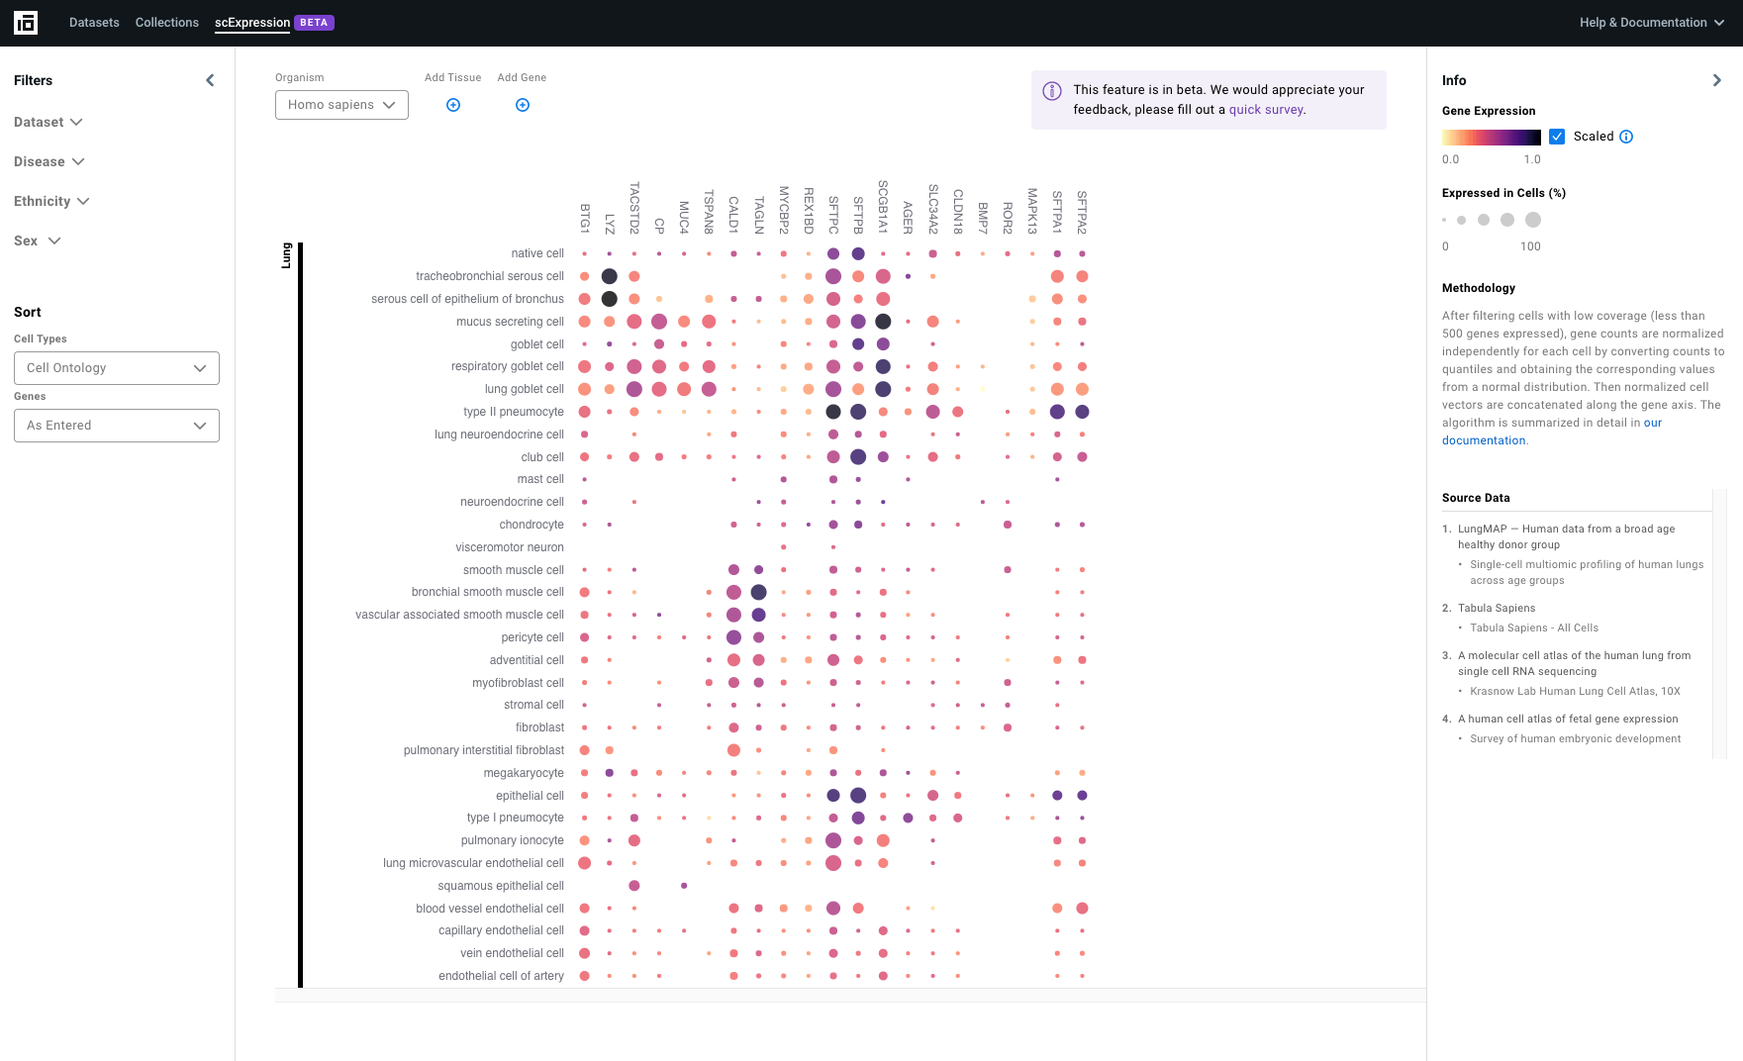
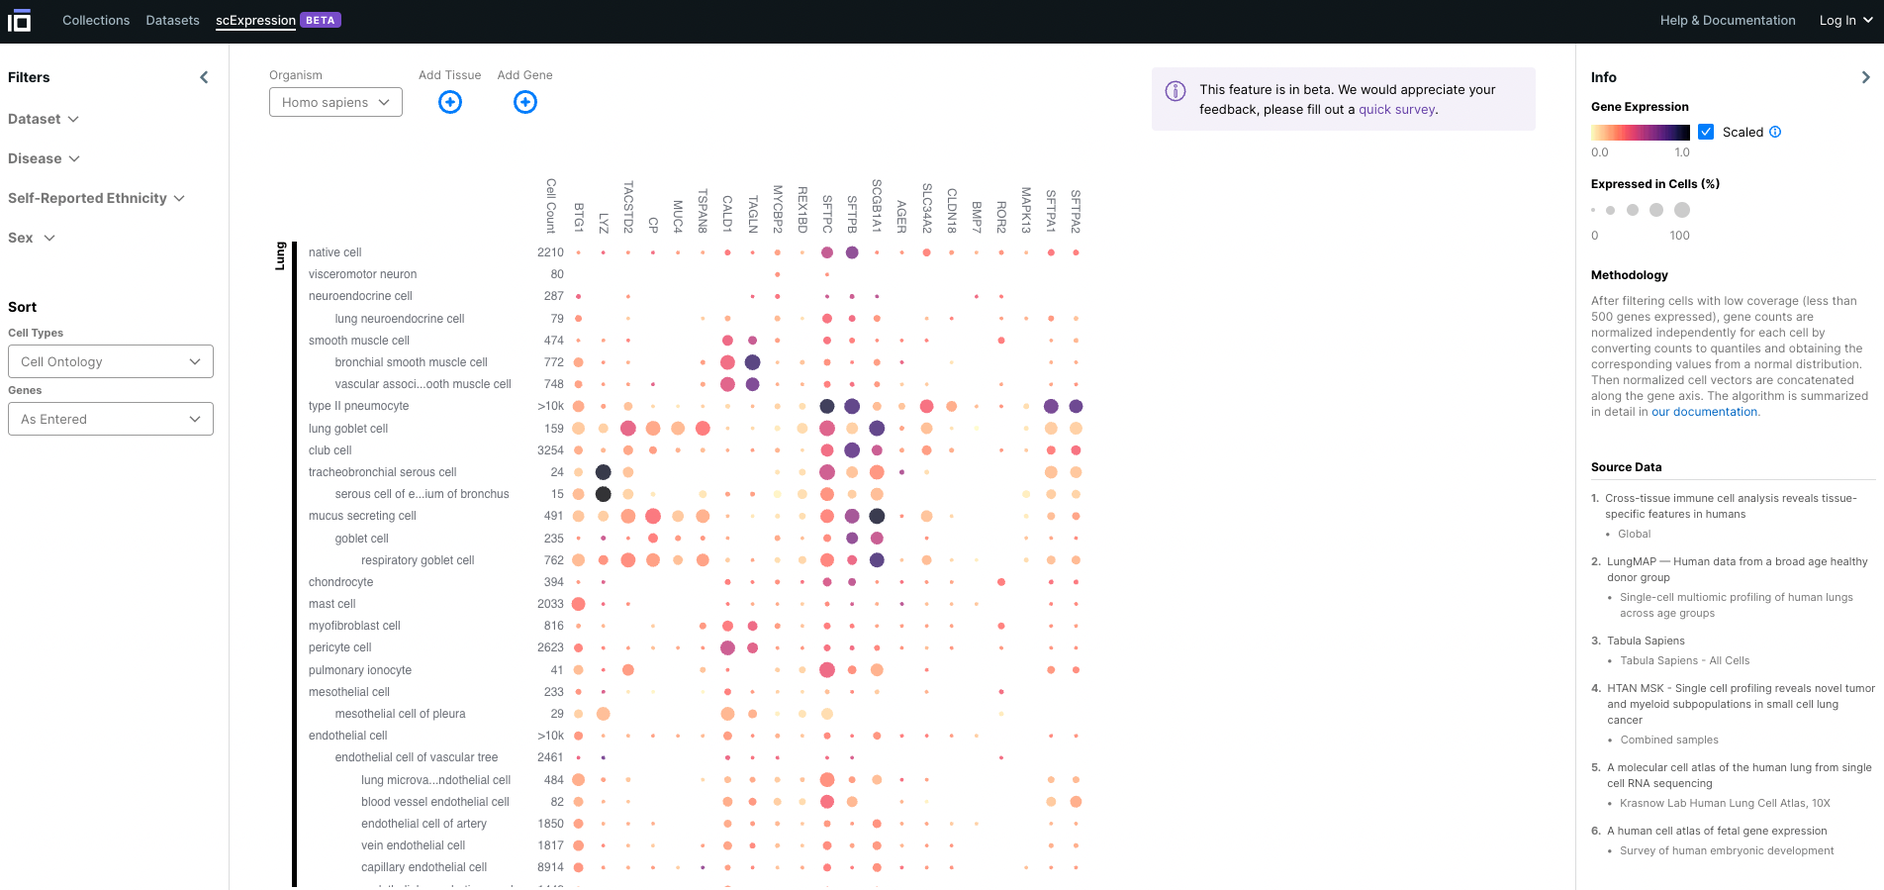
docs: updated doc-site to match schema 3.0.0 requirements (#3180)
* docs: updated to match schema 3.0.0 requirements

* pr feedback

* update to anndata v0.8 download dialog screenshot

* remove unused screenshots + update those with 'ethnicity' to 'self-reported ethnicity'

* Update 032__Contribute and Publish Data.mdx

* reorganize obs cell metadata list

diff --git a/DEV_ENV.md b/DEV_ENV.md
@@ -35,20 +35,20 @@ The dev environment is initialized with AWS Secrets/S3 data in the [scripts/setu
 
 ### Make targets for managing dev:
 
-| Command                                            | Description                                                                        | Notes                                                                                                                                                                                                                                                                                                                                                                                                                                                                                                                                                                                                                                                                                       |
-|----------------------------------------------------| ---------------------------------------------------------------------------------- | ------------------------------------------------------------------------------------------------------------------------------------------------------------------------------------------------------------------------------------------------------------------------------------------------------------------------------------------------------------------------------------------------------------------------------------------------------------------------------------------------------------------------------------------------------------------------------------------------------------------------------------------------------------------------------------------- |
-| `make local-init`                                  | Launch a new local dev env and populate it with test data.                         |                                                                                                                                                                                                                                                                                                                                                                                                                                                                                                                                                                                                                                                                                             |
-| `make local-start`                                 | Start a local dev environment that's been stopped.                                 |                                                                                                                                                                                                                                                                                                                                                                                                                                                                                                                                                                                                                                                                                             |
-| `make local-stop`                                  | Stop the local dev environment.                                                    |                                                                                                                                                                                                                                                                                                                                                                                                                                                                                                                                                                                                                                                                                             |
-| `make local-dbconsole`                             | Connect to the local database.                                                     |                                                                                                                                                                                                                                                                                                                                                                                                                                                                                                                                                                                                                                                                                             |
-| `make local-logs`                                  | Tail the logs of the dev env containers.                                           | Run `make local-logs CONTAINER=backend` to tail the logs of a specific container. Dev containers are: backend, frontend, localstack, database, oidc                                                                                                                                                                                                                                                                                                                                                                                                                                                                                                                                         |
-| `make local-shell CONTAINER=frontend`              | Open a command shell in one of the dev containers                                  | Dev containers are: backend, frontend, localstack, database, oidc                                                                                                                                                                                                                                                                                                                                                                                                                                                                                                                                                                                                                           |
-| `make local-status`                                | Show the status of the containers in the dev environment.                          |                                                                                                                                                                                                                                                                                                                                                                                                                                                                                                                                                                                                                                                                                             |
-| `make local-clean`                                 | Remove everything related to the local dev environment (including db data!)        |                                                                                                                                                                                                                                                                                                                                                                                                                                                                                                                                                                                                                                                                                             |
-| `make local-sync`                                  | Re-sync the local-environment state after modifying library deps or docker configs |                                                                                                                                                                                                                                                                                                                                                                                                                                                                                                                                                                                                                                                                                             |
-| `make local-smoke-test`                            | Run e2e-smoke tests in local dev                                                   |                                                                                                                                                                                                                                                                                                                                                                                                                                                                                                                                                                                                                                                                                             |
-| `make local-unit-test-backend <path=path_of_test>` | Run backend unit tests in local dev                                                | To run one or more or all backend tests. If path is not specified it will run all backend tests<br/> examples: <br/> 1. `make local-unit-test` run all backend tests <br/> 2. `make local-unit-test path=tests.unit.backend.corpora.api_server.test_v1_collection_upload_link` run all tests in the specified module <br/> 3. `make local-unit-test path=tests.unit.backend.corpora.api_server.test_v1_collection_upload_link.TestCollectionUploadLink` run all tests in the specified class <br/> 4. `make local-unit-test path=tests.unit.backend.corpora.api_server.test_v1_collection_upload_link.TestCollectionUploadLink.test__cancel_dataset_download__ok` run specified single test |
-| `make local-uploadjob`                             | Run dropbox upload task                                                            | ex: `make local-uploadjob DATASET_ID=xxxxxx DROPBOX_URL="https://www.dropbox.com/asdfasdf?dl=0"`                                                                                                                                                                                                                                                                                                                                                                                                                                                                                                                                                                                            |
+| Command                                            | Description                                                                        | Notes                                                                                                                                                                                                                                                                                                                                                                                                                                                                                                                                                                                                                                                                                                               |
+|----------------------------------------------------| ---------------------------------------------------------------------------------- |---------------------------------------------------------------------------------------------------------------------------------------------------------------------------------------------------------------------------------------------------------------------------------------------------------------------------------------------------------------------------------------------------------------------------------------------------------------------------------------------------------------------------------------------------------------------------------------------------------------------------------------------------------------------------------------------------------------------|
+| `make local-init`                                  | Launch a new local dev env and populate it with test data.                         |                                                                                                                                                                                                                                                                                                                                                                                                                                                                                                                                                                                                                                                                                                                     |
+| `make local-start`                                 | Start a local dev environment that's been stopped.                                 |                                                                                                                                                                                                                                                                                                                                                                                                                                                                                                                                                                                                                                                                                                                     |
+| `make local-stop`                                  | Stop the local dev environment.                                                    |                                                                                                                                                                                                                                                                                                                                                                                                                                                                                                                                                                                                                                                                                                                     |
+| `make local-dbconsole`                             | Connect to the local database.                                                     |                                                                                                                                                                                                                                                                                                                                                                                                                                                                                                                                                                                                                                                                                                                     |
+| `make local-logs`                                  | Tail the logs of the dev env containers.                                           | Run `make local-logs CONTAINER=backend` to tail the logs of a specific container. Dev containers are: backend, frontend, localstack, database, oidc                                                                                                                                                                                                                                                                                                                                                                                                                                                                                                                                                                 |
+| `make local-shell CONTAINER=frontend`              | Open a command shell in one of the dev containers                                  | Dev containers are: backend, frontend, localstack, database, oidc                                                                                                                                                                                                                                                                                                                                                                                                                                                                                                                                                                                                                                                   |
+| `make local-status`                                | Show the status of the containers in the dev environment.                          |                                                                                                                                                                                                                                                                                                                                                                                                                                                                                                                                                                                                                                                                                                                     |
+| `make local-clean`                                 | Remove everything related to the local dev environment (including db data!)        |                                                                                                                                                                                                                                                                                                                                                                                                                                                                                                                                                                                                                                                                                                                     |
+| `make local-sync`                                  | Re-sync the local-environment state after modifying library deps or docker configs |                                                                                                                                                                                                                                                                                                                                                                                                                                                                                                                                                                                                                                                                                                                     |
+| `make local-smoke-test`                            | Run e2e-smoke tests in local dev                                                   |                                                                                                                                                                                                                                                                                                                                                                                                                                                                                                                                                                                                                                                                                                                     |
+| `make local-unit-test-backend <path=path_of_test>` | Run backend unit tests in local dev                                                | To run one or more or all backend tests. If path is not specified it will run all backend tests<br/> examples: <br/> 1. `make local-unit-test` run all backend tests <br/> 2. `make local-unit-test-backend path=tests.unit.backend.corpora.api_server.test_v1_collection_upload_link` run all tests in the specified module <br/> 3. `make local-unit-test-backend path=tests.unit.backend.corpora.api_server.test_v1_collection_upload_link.TestCollectionUploadLink` run all tests in the specified class <br/> 4. `make local-unit-test-backend path=tests.unit.backend.corpora.api_server.test_v1_collection_upload_link.TestCollectionUploadLink.test__cancel_dataset_download__ok` run specified single test |
+| `make local-uploadjob`                             | Run dropbox upload task                                                            | ex: `make local-uploadjob DATASET_ID=xxxxxx DROPBOX_URL="https://www.dropbox.com/asdfasdf?dl=0"`                                                                                                                                                                                                                                                                                                                                                                                                                                                                                                                                                                                                                    |
 
 ### Make targets for running tests in dev
 
